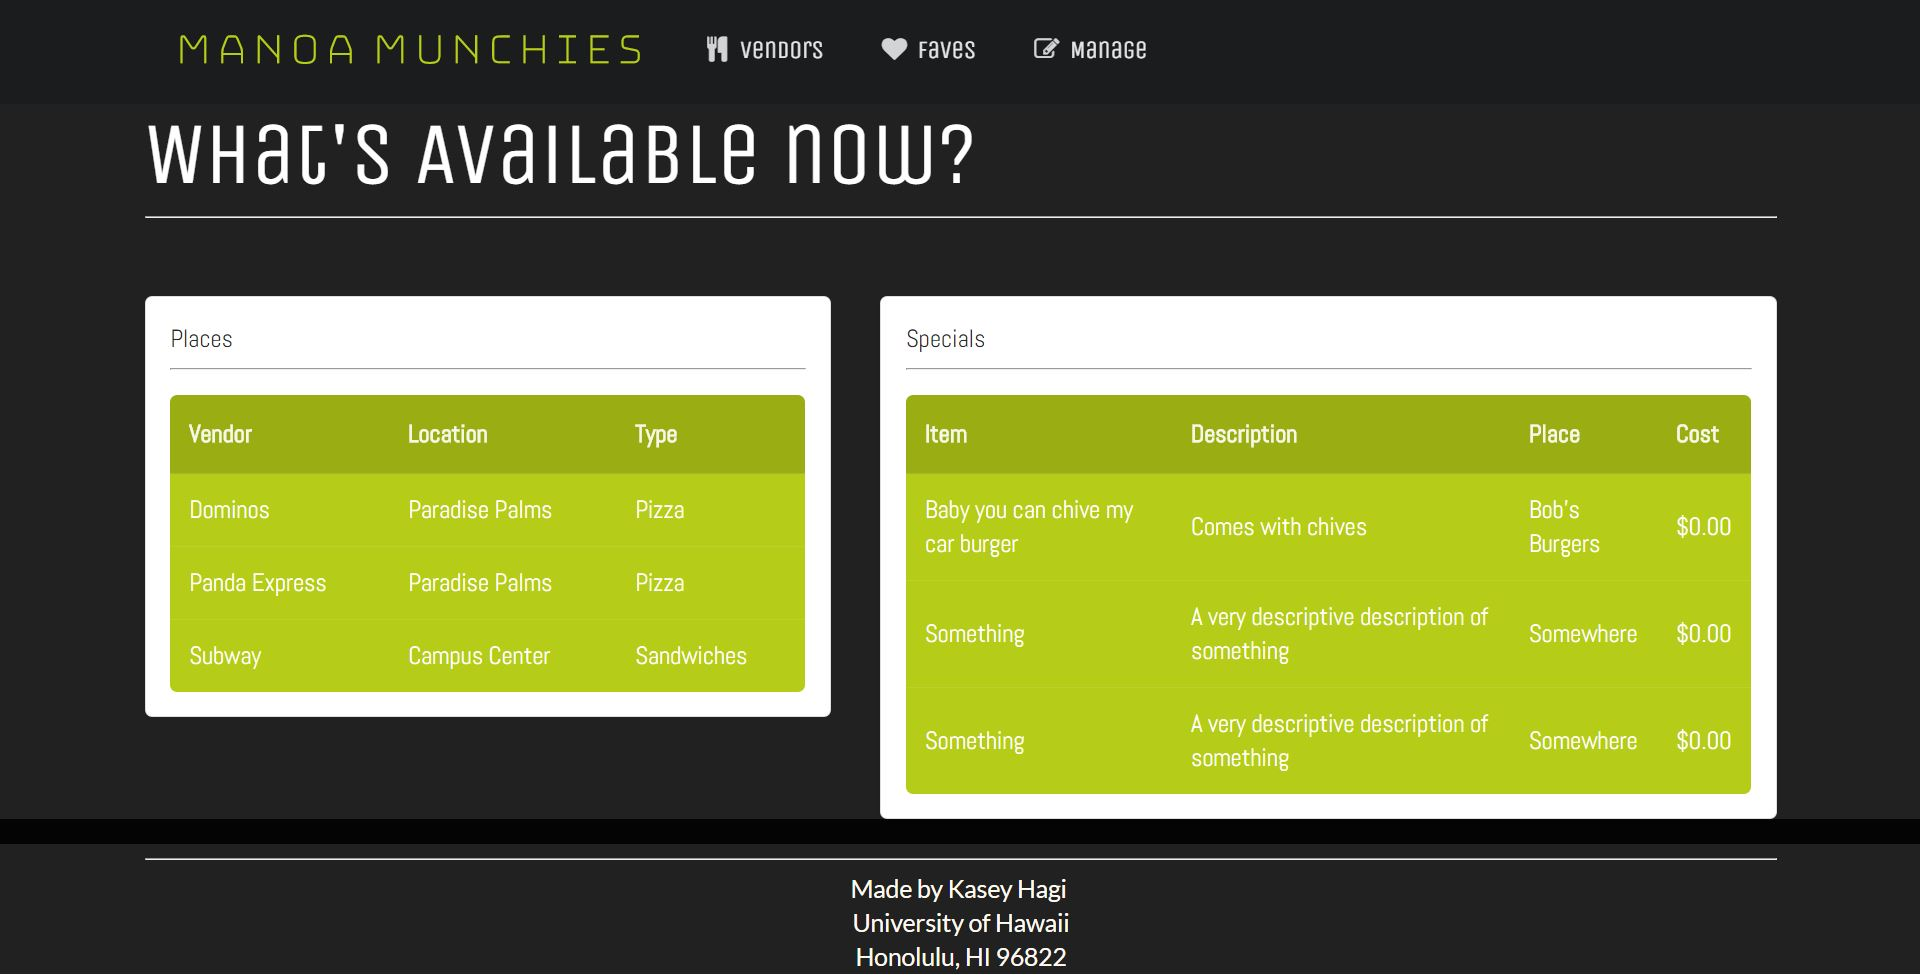
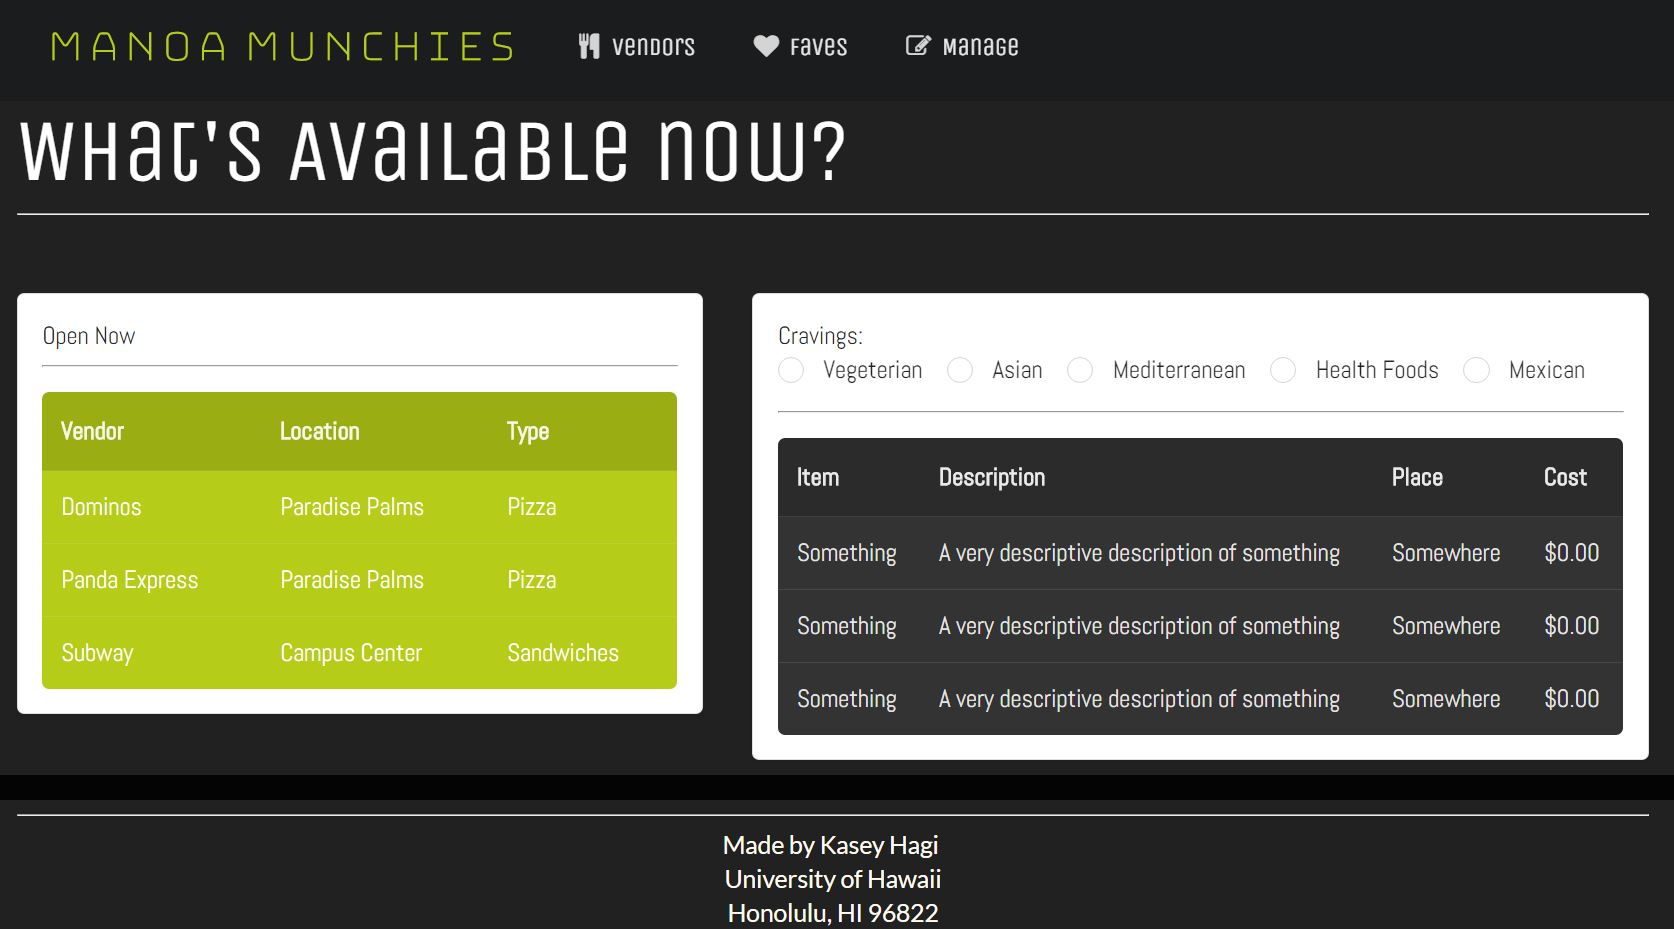
read me

diff --git a/app/imports/ui/pages/vendor-page-da-spot.html b/app/imports/ui/pages/vendor-page-da-spot.html
@@ -1,0 +1,155 @@
+<template name="Vendor_Page_DaSpot">
+  <div class="home-page-body">
+    <div class="ui container">
+      <div class="home-page-header">
+        Da Spot
+        <hr/>
+      </div>
+      <div class="ui grid">
+        <div class="left floated left aligned five wide column">
+          <div class="ui container">
+            <div class="ui green inverted center aligned segment">OPEN NOW</div>
+            <div class="ui segment">
+              Da Spot serves an all vegetarian menu of fresh health foods from around the globe, including Hawaiian,
+              Egyptian, Mediterranean, European, & Asian gourmet foods.
+            </div>
+            <div class="ui segment">
+              Location: Sustainablility Courtyard<br/>
+              <hr/>
+              Hours of Operation<br/>
+              <table class="ui inverted table">
+                <tbody>
+                <tr>
+                  <td> Monday</td>
+                  <td> 8:30am-3:00pm</td>
+                </tr>
+                <tr>
+                  <td> Tuesday</td>
+                  <td> 8:30am-3:00pm</td>
+                </tr>
+                <tr>
+                  <td> Wednesday</td>
+                  <td> 8:30am-3:00pm</td>
+                </tr>
+                <tr>
+                  <td> Thursday</td>
+                  <td> 8:30am-3:00pm</td>
+                </tr>
+                <tr>
+                  <td> Friday</td>
+                  <td> 8:30am-3:00pm</td>
+                </tr>
+
+                </tbody>
+              </table>
+            </div>
+          </div>
+        </div>
+        <div class="right floated left aligned eleven wide column">
+          <div class="ui container">
+
+            <div class="ui segment">
+              Today's Specials<br/>
+              <hr/>
+              <table class="ui inverted olive table">
+                <thead>
+                <tr>
+                  <th>Item</th>
+                  <th>Cost</th>
+
+                </tr>
+                </thead>
+                <tbody>
+                <tr>
+                  <td> Eggplant Parmesan</td>
+                  <td> $0.00</td>
+
+                </tr>
+                <tr>
+                  <td> Foul Modaimis (fava bean dish)</td>
+                  <td> $0.00</td>
+
+                </tr>
+                <tr>
+                  <td> Moussakka</td>
+                  <td> $0.00</td>
+
+                </tr>
+                </tbody>
+              </table>
+            </div>
+            <div class="ui segment">
+              Smoothies<br/>
+              <hr/>
+              <table class="ui inverted green table">
+                <thead>
+                <tr>
+                  <th>Item</th>
+                  <th>Description</th>
+                </tr>
+
+                </thead>
+                <tbody>
+                <tr>
+                  <td> Sweet Dream</td>
+                  <td> Strawberries, Hawupia, Sorbet, Soymilk</td>
+                </tr>
+                <tr>
+                  <td> DaKine</td>
+                  <td> Strawberries, Bananas, Lilikoi Sorbet, Passion Orange Juice</td>
+                </tr>
+                <tr>
+                  <td> StarBerry</td>
+                  <td> Strawberries, Lychee Sorbet, Guava Juice</td>
+                </tr>
+                <tr>
+                  <td> Strawberry Potion</td>
+                  <td> Strawberries, Bananas, Soymilk</td>
+                </tr>
+                <tr>
+                  <td> VeryBerryGood</td>
+                  <td> Strawberries, Mixberries, Bananas, Grape Juice</td>
+                </tr>
+                <tr>
+                  <td> HomeGrown</td>
+                  <td> Strawberries, Mixberries, Guava Sorbet, Guava Juice</td>
+                </tr>
+                <tr>
+                  <td> Grenade</td>
+                  <td>Strawberries, Pomegranate Sorbet, Grape Juice</td>
+                </tr>
+                <tr>
+                  <td> Southberry</td>
+                  <td> Strawberries, Mixberries, Acai & Haupia Sorbet, Guava Juice, Soymilk</td>
+                </tr>
+                <tr>
+                  <td> AlohaBerry</td>
+                  <td> Mixberries, Bananas, Haupia Sorbet, Guava Juice, Soymilk</td>
+                </tr>
+                <tr>
+                  <td> Kalakauan</td>
+                  <td>Mixberries, Bananas, Pomegranate Sorbet, Apple Juice</td>
+                </tr>
+                <tr>
+                  <td> CocoOno</td>
+                  <td>Bananas, Haupia Sorbet, Soymilk</td>
+                </tr>
+                <tr>
+                  <td> LocoStyle</td>
+                  <td> Bananas, Acai Sorbet, Soymilk</td>
+                </tr>
+
+
+                </tbody>
+              </table>
+
+            </div>
+          </div>
+
+        </div>
+      </div>
+    </div>
+  </div>
+
+
+</template>

diff --git a/app/imports/ui/pages/home-page.html b/app/imports/ui/pages/home-page.html
@@ -7,7 +7,7 @@
         <div class="left floated left aligned seven wide column">
           <div class="ui container">
             <div class="ui segment">
-              Places<br/>
+              Open Now<br/>
               <hr/>
               <table class="ui inverted olive table">
                 <thead>
@@ -43,9 +43,43 @@
 
           <div class="ui container">
             <div class="ui segment">
-              Specials<br/>
+              Cravings: <br/>
+              <div class="ui form">
+                <div class="inline fields">
+                  <div class="field">
+                    <div class="ui radio checkbox">
+                      <input type="radio" >
+                      <label>Vegeterian</label>
+                    </div>
+                  </div>
+                  <div class="field">
+                    <div class="ui radio checkbox">
+                      <input type="radio" >
+                    <label>Asian</label>
+                      </div>
+                  </div>
+                  <div class="field">
+                    <div class="ui radio checkbox">
+                      <input type="radio" >
+                      <label>Mediterranean</label>
+                    </div>
+                  </div>
+                  <div class="field">
+                    <div class="ui radio checkbox">
+                      <input type="radio" >
+                      <label>Health Foods</label>
+                    </div>
+                  </div>
+                  <div class="field">
+                    <div class="ui radio checkbox">
+                      <input type="radio" >
+                      <label>Mexican</label>
+                    </div>
+                  </div>
+                </div>
+              </div>
               <hr/>
-              <table class="ui inverted olive  table">
+              <table class="ui inverted table">
                 <thead>
                 <tr>
                   <th>Item</th>
@@ -56,9 +90,9 @@
                 </thead>
                 <tbody>
                 <tr>
-                  <td> Baby you can chive my car burger</td>
-                  <td> Comes with chives</td>
-                  <td>Bob's Burgers</td>
+                  <td> Something</td>
+                  <td> A very descriptive description of something</td>
+                  <td> Somewhere</td>
                   <td> $0.00</td>
                 </tr>
                 <tr>

diff --git a/app/imports/startup/client/router.js b/app/imports/startup/client/router.js
@@ -37,6 +37,12 @@ FlowRouter.route('/vendor', {
     BlazeLayout.render('App_Body', { main: 'Vendor_Page' });
   },
 });
+FlowRouter.route('/vendor/da-spot', {
+  name: 'Vendor_Page_DaSpot',
+  action() {
+    BlazeLayout.render('App_Body', { main: 'Vendor_Page_DaSpot' });
+  },
+});
 FlowRouter.route('/list', {
   name: 'List_Stuff_Page',
   action() {

diff --git a/app/imports/ui/pages/index.js b/app/imports/ui/pages/index.js
@@ -9,6 +9,7 @@ import './public-landing-page.html';
 import './user-profile-page.html';
 import './vendors-page.html';
 import './vendor-page.html';
+import './vendor-page-da-spot.html';
 import './admin-home-page.html';
 
 import './list-stuff-page.html';
